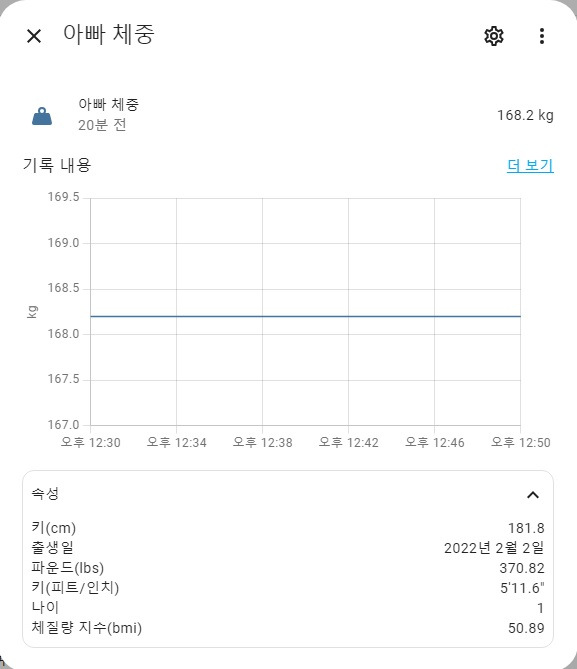
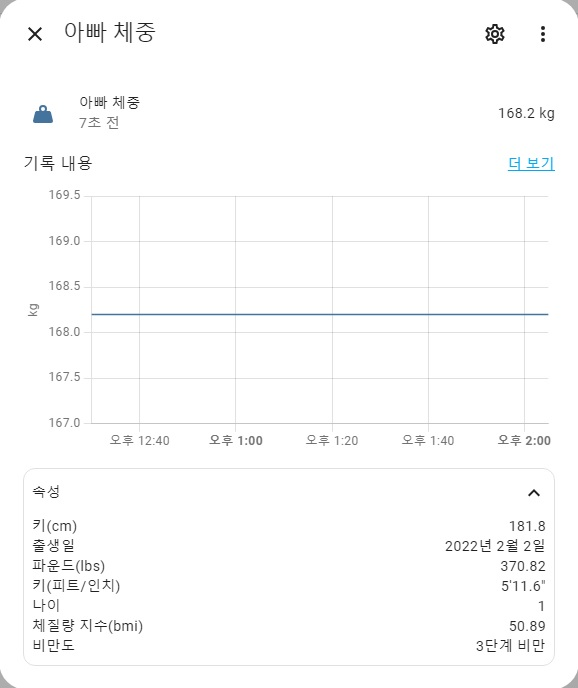
비만도 계산(세계보건기구 기준)

diff --git a/custom_components/weight_recorder/sensor.py b/custom_components/weight_recorder/sensor.py
@@ -78,8 +78,8 @@ class WeightRecorderSensor(EntityBase, RestoreSensor):
         self._value = None
         self._attributes = {}
         if self._device.device_type == DeviceType.PROFILE:
-            self._attributes[CONF_HEIGHT] = device.configure.get(CONF_HEIGHT)
-            self._attributes[CONF_BIRTH] = device.configure.get(CONF_BIRTH)
+            self._attributes[ATTR_HEIGHT] = device.configure.get(CONF_HEIGHT)
+            self._attributes[ATTR_BIRTH] = device.configure.get(CONF_BIRTH)
 
         self._device.weight_entity = self
 
@@ -104,22 +104,38 @@ class WeightRecorderSensor(EntityBase, RestoreSensor):
     async def calc_attribute(self):
         # BMI calc
         if isNumber(self._value):
-            self._attributes["lbs"] = float(self._value) / 0.453592
+            self._attributes[ATTR_LBS] = float(self._value) / 0.453592
             if self._device.device_type == DeviceType.PROFILE:
-                height = float(self._attributes.get(CONF_HEIGHT))
+                height = float(self._attributes.get(ATTR_HEIGHT))
                 inch = height / 2.54
                 feet = math.floor(inch/12)
                 inch = round(inch - 12 * feet, 1)
-                self._attributes["height(ft/in)"] = str(feet) + "'" + str(inch) + '"'
+                self._attributes[ATTR_HEIGHT_FEET_INCH] = str(feet) + "'" + str(inch) + '"'
 
                 date_time_obj = datetime.strptime(self._attributes.get(CONF_BIRTH), "%Y-%m-%d")
                 age = get_american_age(date_time_obj.strftime("%Y%m%d"), datetime.now().strftime('%Y%m%d'))
                 _LOGGER.debug("age : " + str(age))
-                self._attributes["age"] = age
+                self._attributes[ATTR_AGE] = age
                 
 
                 _LOGGER.debug("calc BMI - weight : " + str(self._value) + ", height : " + str(height))
-                self._attributes[CONF_BMI] = float(self._value) / (float(height/100) * float(height/100))
+                bmi = float(self._value) / (float(height/100) * float(height/100))
+                self._attributes[ATTR_BMI] = bmi
+                bmi_state = None
+                if bmi <= 18.5:
+                    bmi_state = "under"
+                elif bmi > 18.5 and bmi <= 25:
+                    bmi_state = "norma"
+                elif bmi > 25 and bmi <= 30:
+                    bmi_state = "over"
+                elif bmi > 30 and bmi <= 35:
+                    bmi_state = "I_Obesity"
+                elif bmi > 35 and bmi <= 40:
+                    bmi_state = "II_Obesity"
+                elif bmi > 40:
+                    bmi_state = "III_Obesity"
+
+                self._attributes[ATTR_BMI_STATE] = bmi_state
             
     async def async_added_to_hass(self):
         value = self._device.configure.get(CONF_WEIGHT)

diff --git a/custom_components/weight_recorder/const.py b/custom_components/weight_recorder/const.py
@@ -38,6 +38,15 @@ CONF_USE_MANUAL_INPUT = "manual_input"
 
 ATTR_CONF = "configure"
 
+ATTR_BMI = "bmi"
+ATTR_BMI_STATE = "bmi_state"
+ATTR_HEIGHT_FEET_INCH = "height(ft/in)"
+ATTR_HEIGHT = "height"
+ATTR_AGE = "age"
+ATTR_LBS = "lbs"
+ATTR_BIRTH = "birth"
+
+
 class DeviceType(Enum):
     PROFILE = 0,
     HUB = 1
